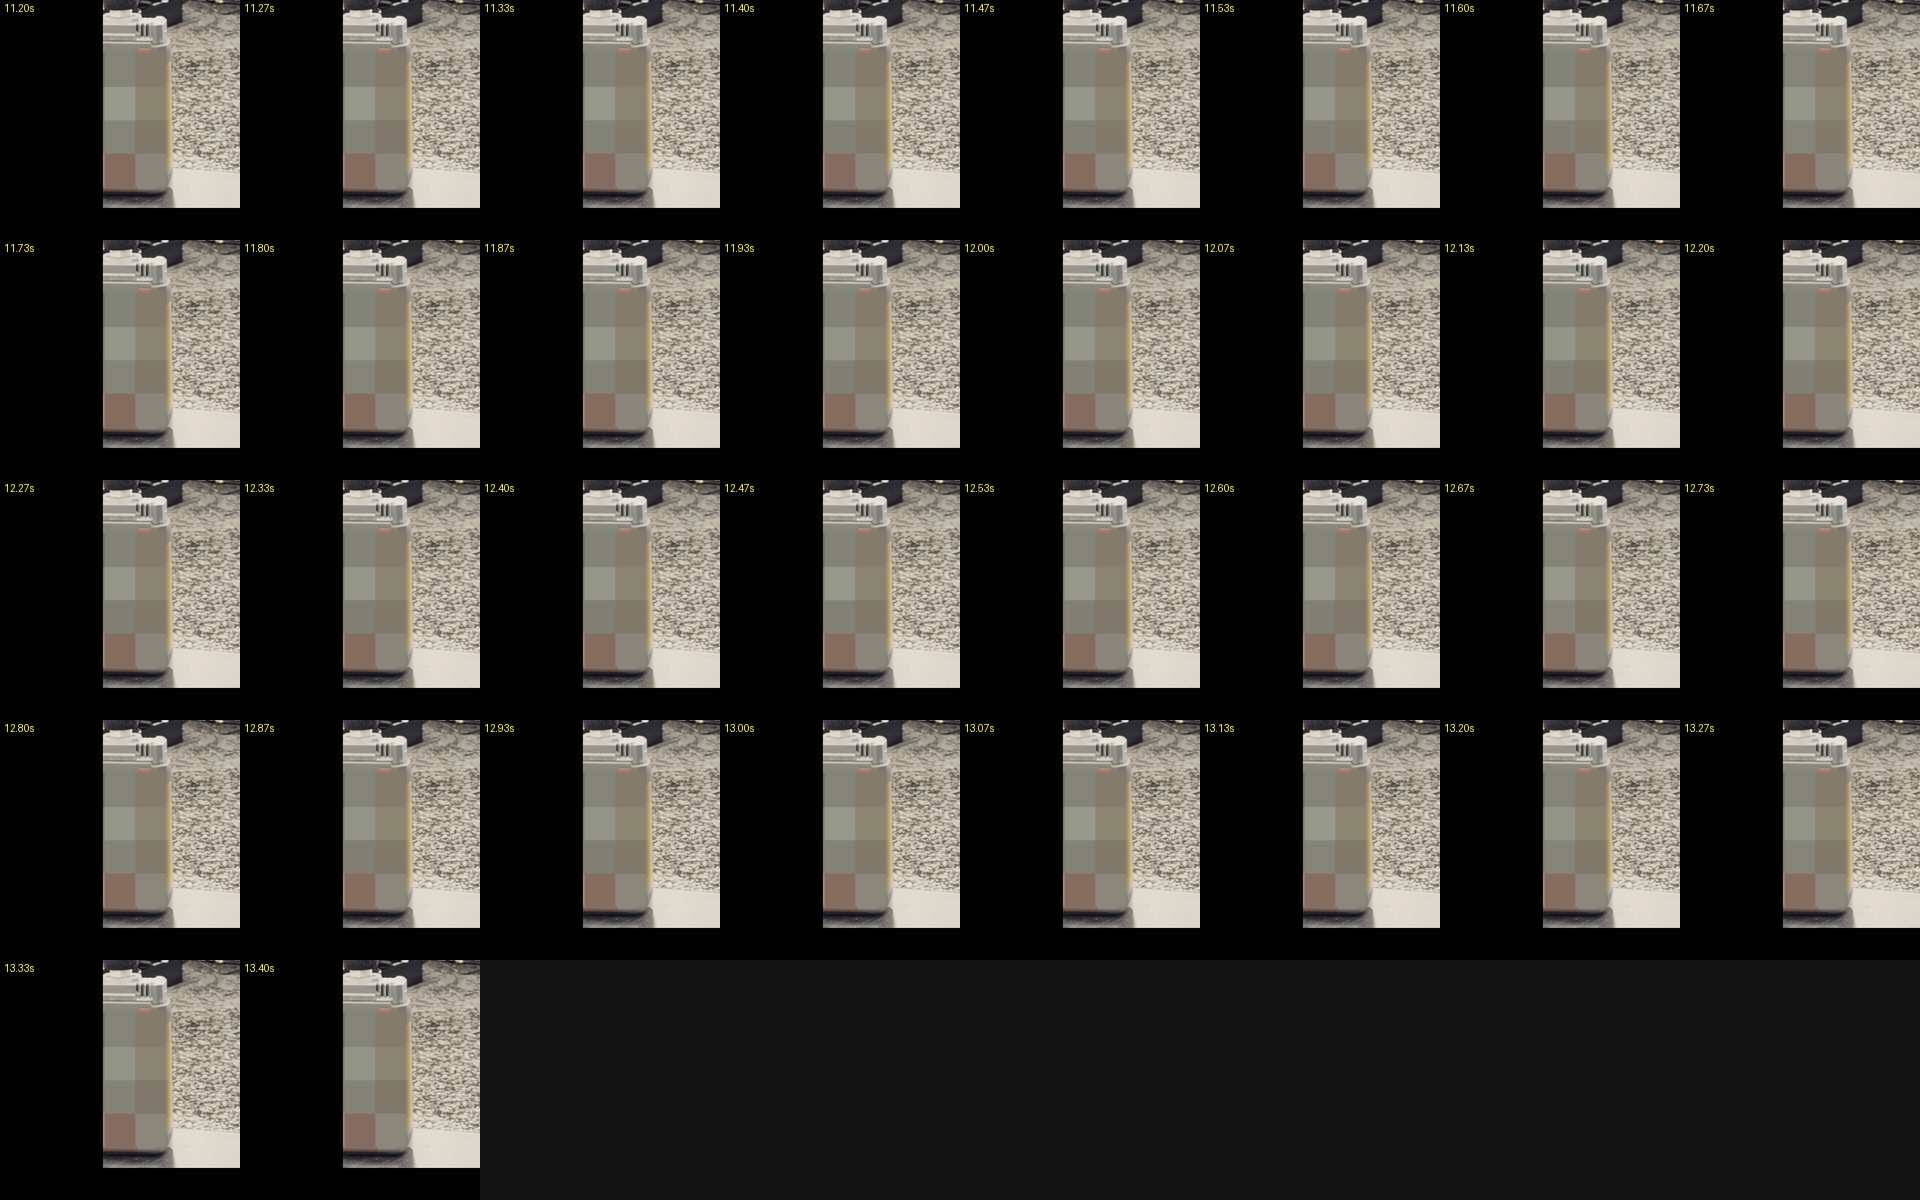
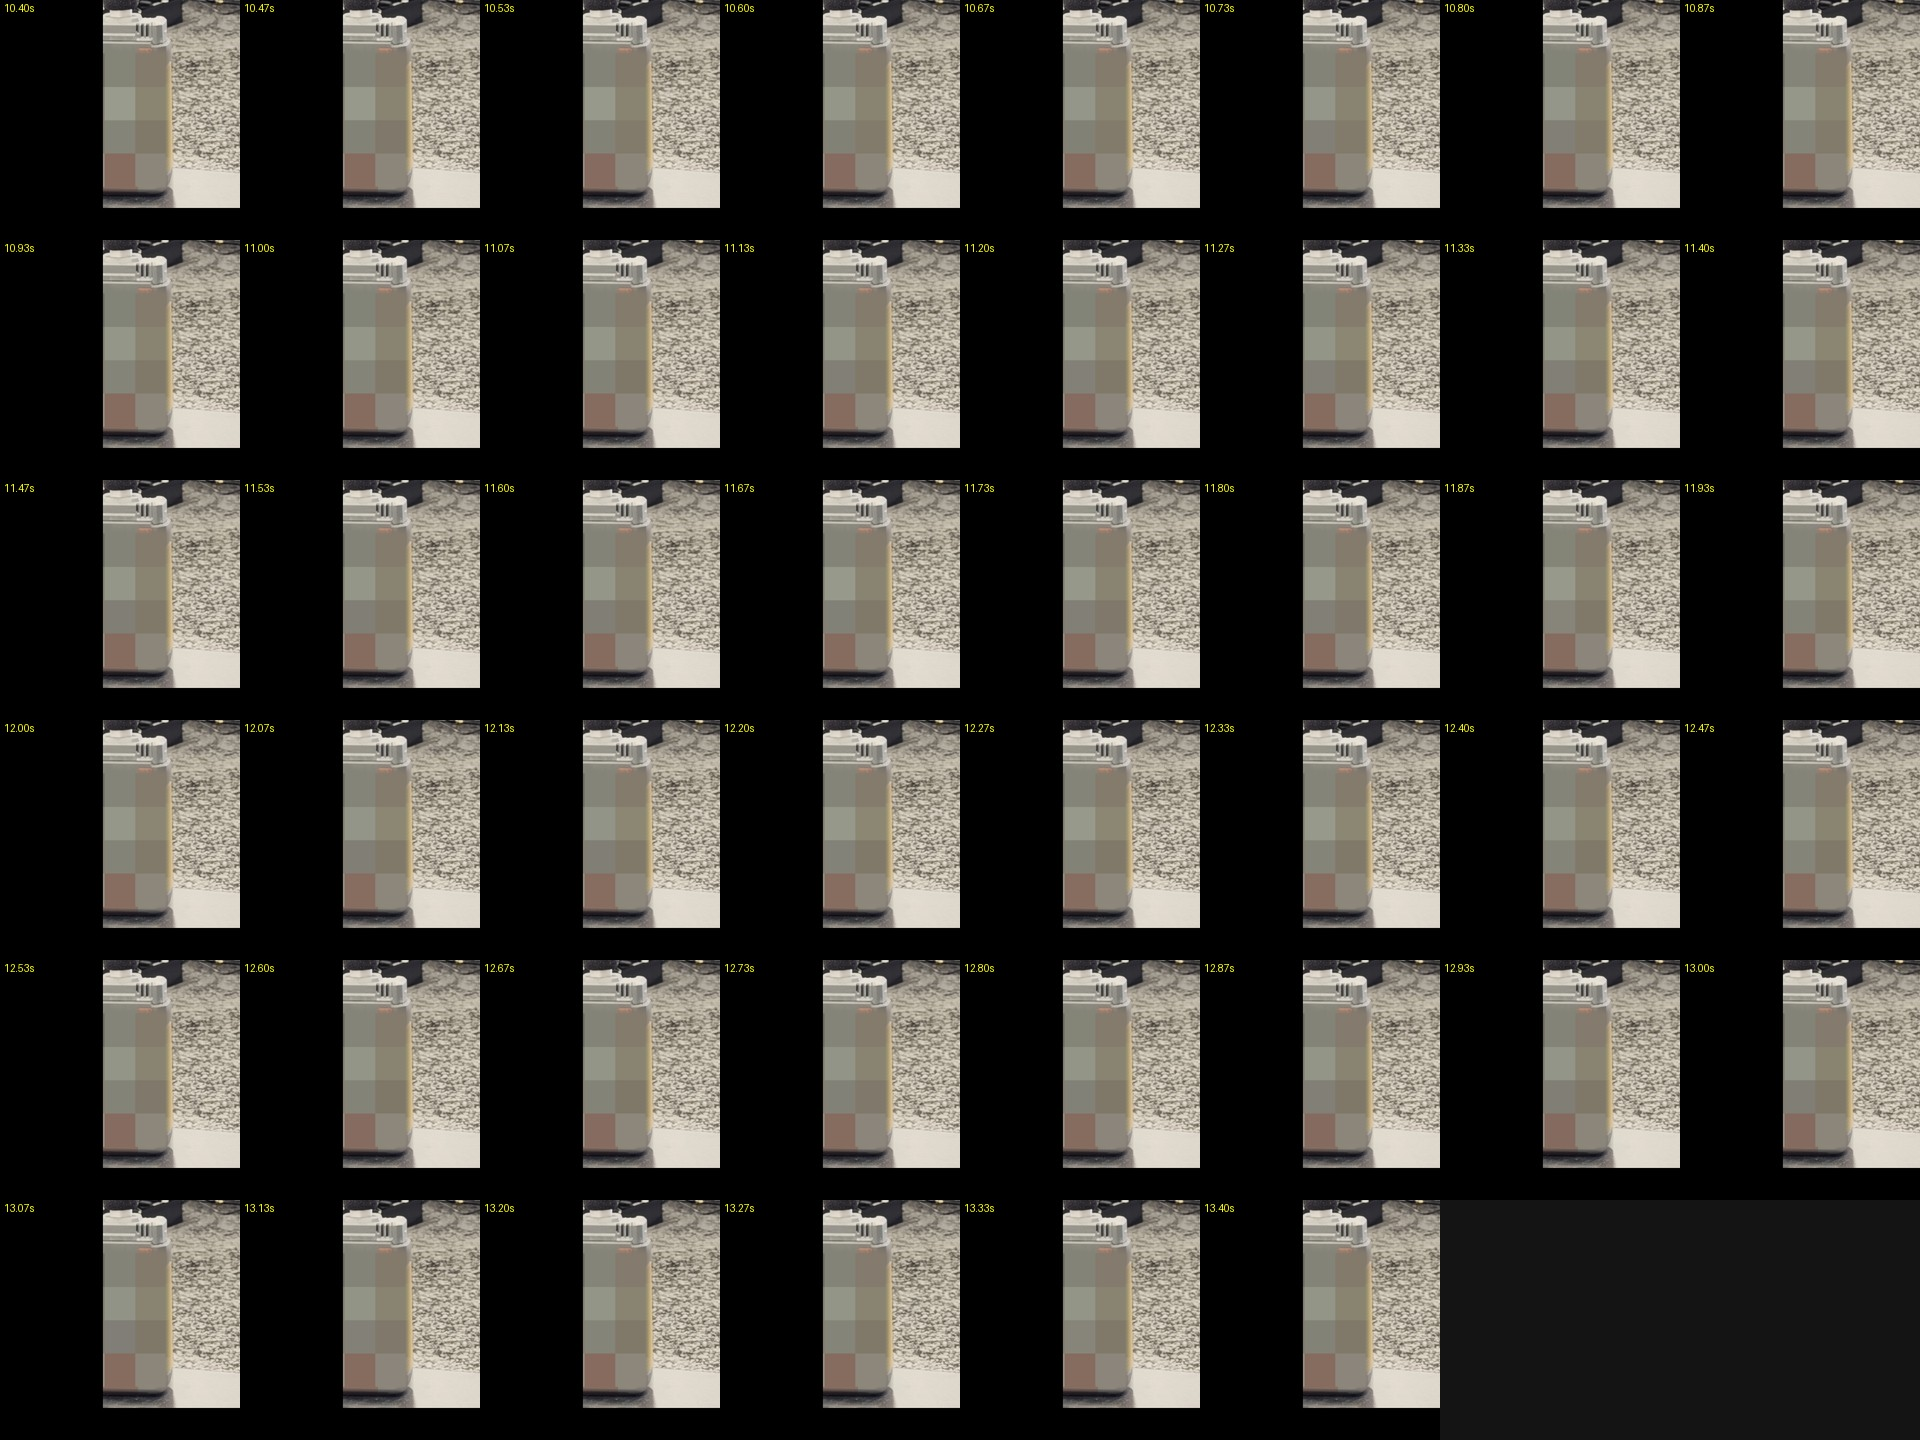
C63 Cut Back v3: BT.709 matrix, close quiet gap, keep end-card frames
Claude-Session: https://claude.ai/code/session_01VygxzDhjPWGsTKabbZH8VW

diff --git a/formula-dynamics/14-fd-commercials/2026-10-28-c63-cut-back/build.py b/formula-dynamics/14-fd-commercials/2026-10-28-c63-cut-back/build.py
@@ -76,9 +76,9 @@ SHOTS = [
          crop=((530, 1400, 1060), (500, 1650, 980)), redact=[]),
     dict(name="parts2", src="IMG_0579.MOV", t_in=7.45, dur=0.5,
          crop=((420, 3200, 800), (420, 3260, 760)), redact=[]),
-    dict(name="parts3", src="IMG_0579.MOV", t_in=10.35, dur=1.3,
+    dict(name="parts3", src="IMG_0579.MOV", t_in=10.35, dur=0.5,
          crop=((600, 1740, 1200), (800, 1800, 1100)), redact=[]),
-    dict(name="coldstart", src="IMG_0590.MOV", t_in=6.20, dur=2.45, a_pre=0.50,
+    dict(name="coldstart", src="IMG_0590.MOV", t_in=6.20, dur=74 / 30, a_pre=0.50,
          crop=((1330, 1475, 1659), (1350, 1475, 1590)),
          redact=[("plate", PLATE_0590, (6, 3)), ("meter", METER_0590, (3, 4))]),
     # the new burnt piping under the bumper, between the tip pairs; source y 1027-2093
@@ -86,10 +86,10 @@ SHOTS = [
     dict(name="piping", src="IMG_0590.MOV", t_in=53.90, dur=0.8,
          crop=((880, 1560, 520), (880, 1580, 470)),
          redact=[("plate", PLATE_0590, (6, 3)), ("meter", METER_0590, (3, 4))]),
-    dict(name="rev", src="IMG_0590.MOV", t_in=54.70, dur=2.30,
+    dict(name="rev", src="IMG_0590.MOV", t_in=54.70, dur=3.10,
          crop=((1420, 1300, 1400), (1420, 1300, 1400)),
          redact=[("plate", PLATE_0590, (6, 3)), ("meter", METER_0590, (3, 4))]),
-    dict(name="end", src="IMG_0590.MOV", t_in=57.00, dur=1.7,
+    dict(name="end", src="IMG_0590.MOV", t_in=57.80, dur=1.7,
          crop=((1420, 1300, 1400), (1420, 1300, 1400)),
          redact=[("plate", PLATE_0590, (6, 3)), ("meter", METER_0590, (3, 4))],
          darken=True),
@@ -428,7 +428,7 @@ A_POST = {"before": 1.20}      # L-cut: the stock car's rev and idle carry 1.2 s
 
 
 def build_audio(raw, wav_path):
-    N = int(round(TOTAL * SR))
+    N = int(round(NFRAMES / FPS * SR))      # exactly the video length, so the mux drops no frames
     mix = np.zeros((N + SR, 2), np.float32)
     # Each window's own audio only. J-cut (a_pre): the cold start's own cranking comes in
     # under the last parts cut; L-cut (A_POST): the stock rev decays under the first.
@@ -489,8 +489,9 @@ def main():
         return finish(raw, work)
     enc = subprocess.Popen(["ffmpeg", "-v", "error", "-y", "-f", "rawvideo", "-pix_fmt", "rgb24",
                             "-s", f"{W}x{H}", "-r", str(FPS), "-i", "-",
+                            "-vf", "scale=in_range=full:out_range=tv:out_color_matrix=bt709:flags=accurate_rnd+full_chroma_int,format=yuv420p",
                             "-c:v", "libx264", "-profile:v", "high", "-preset", "slow", "-crf", "17",
-                            "-pix_fmt", "yuv420p", "-colorspace", "bt709", "-color_primaries", "bt709",
+                            "-pix_fmt", "yuv420p", "-color_range", "tv", "-colorspace", "bt709", "-color_primaries", "bt709",
                             "-color_trc", "bt709", "-movflags", "+faststart", str(work / "video.mp4")],
                            stdin=subprocess.PIPE)
     log = []
@@ -526,7 +527,7 @@ def finish(raw, work):
     print("loudnorm pass1", json.dumps({k: js[k] for k in ("input_i", "input_tp", "input_lra")}))
     subprocess.run(["ffmpeg", "-v", "error", "-y", "-i", str(work / "video.mp4"), "-i", str(work / "mix_ln.wav"),
                     "-map", "0:v", "-map", "1:a", "-c:v", "copy", "-c:a", "aac", "-b:a", "192k", "-ar", str(SR),
-                    "-shortest", "-movflags", "+faststart", str(OUT_MP4)], check=True)
+                    "-movflags", "+faststart", str(OUT_MP4)], check=True)
     make_qa_sheets(work)
 
 

diff --git a/formula-dynamics/14-fd-commercials/2026-10-28-c63-cut-back/README.md b/formula-dynamics/14-fd-commercials/2026-10-28-c63-cut-back/README.md
@@ -10,12 +10,25 @@ Needs ffmpeg 6+, numpy, Pillow, opencv-python-headless. Brand values come from `
 Source footage and the mp4 are not committed.
 
 Output: `exports/FD C63 - Cut Back (exhaust, 15s) - INSTAGRAM 1080x1920.mp4`, 1080x1920, 30 fps,
-H.264 High, yuv420p/bt709, AAC 48 kHz stereo 192k, 15.15 s (455 frames).
+H.264 High, yuv420p/bt709 (tv range), AAC 48 kHz stereo 192k, 15.17 s (455 frames, none dropped: the audio is built to exactly 455/30 s and the mux no longer uses `-shortest`).
 
 v2 (2026-10-13), after nq-check: part brands off screen (hang tag and the can's etched name/text
 framed out), lift and third-party branding off the "before" shot, no synthetic sound, parts section
 cut from 6.65 s to 2.9 s, "NEW." moved onto the X-pipe, a close-up of the new piping under the
 bumper added to the payoff, hook text 40 px lower.
+
+v3 (2026-10-13), after nq-check failed v2: colour matrix fixed (see Colour), the near-silent bench gap
+(6.0-8.3 s) closed by trimming parts3 to 0.5 s and sliding the cold start in behind it (fire now at 7.60 s),
+the 0.8 s given back to the held rev; the last 4 end-card frames are no longer dropped by the mux.
+Piping close-up unchanged: Omarie confirmed on 13 Oct 2026 that the gold pipe under the diffuser is FD's work.
+
+## Colour
+
+The rgb24 frames are converted with an explicit matrix in the encoder (`-vf scale=in_range=full:out_range=tv:
+out_color_matrix=bt709`), because without it ffmpeg encoded BT.601 under a BT.709 tag and FD red decoded as
+(255,38,15). Measured on the delivered mp4 decoded as BT.709/tv: hook underline (254,14,20) vs #FE0F13 (254,15,19);
+end-card stripe red (254,14,19), green (30,174,75) vs #1DB14B (29,177,75), yellow (254,219,1) vs #FFDE00 (255,222,0),
+all within 4. The cover jpg is written straight from the RGB frame (sRGB, no YUV step), so it is unaffected.
 
 ## Shot list (timeline / source)
 
@@ -25,18 +38,18 @@ bumper added to the payoff, hook text 40 px lower.
 | before | 2.00-5.00 | IMG_0325 | 4.25-7.25 | rear three-quarter, crop top held at src y 1380 so the lift posts' maker name (above y 1290) never shows; stock revs at 4.3 and 7.0 |
 | parts1 | 5.00-6.10 | IMG_0579 | 5.10-6.20 | X-pipe and its first brace; framed left of / above the hang tag every frame |
 | parts2 | 6.10-6.60 | IMG_0579 | 7.45-7.95 | macro of the X-pipe brace, below the muffler can |
-| parts3 | 6.60-7.90 | IMG_0579 | 10.35-11.65 | X-pipe outlets and the bent link pipe, above the muffler can |
-| coldstart | 7.90-10.35 | IMG_0590 | 6.20-8.65 | wider rear; cold start fires at src 6.70 = timeline 8.40 |
-| piping | 10.35-11.15 | IMG_0590 | 53.90-54.70 | close-up of the burnt piping under the bumper between the tip pairs (crop w 520 to 470, src y about 1100-2000; tips, plate and meter logo box out of frame); the rev burst lands on the cut |
-| rev | 11.15-13.45 | IMG_0590 | 54.70-57.00 | held, uncut; burst at src 56.6 |
-| end | 13.45-15.15 | IMG_0590 | 57.00-58.70 | same framing, darkened 72% + soft blur over 6 frames |
+| parts3 | 6.60-7.10 | IMG_0579 | 10.35-10.85 | X-pipe outlets and the bent link pipe, above the muffler can |
+| coldstart | 7.10-9.57 | IMG_0590 | 6.20-8.67 | wider rear; cold start fires at src 6.70 = timeline 7.60; its audio starts under parts3 at 6.60 |
+| piping | 9.57-10.37 | IMG_0590 | 53.90-54.70 | close-up of the burnt piping under the bumper between the tip pairs (crop w 520 to 470, src y about 1100-2000; tips, plate and meter logo box out of frame); the rev burst lands on the cut |
+| rev | 10.37-13.47 | IMG_0590 | 54.70-57.80 | held, uncut (3.1 s, was 2.3); burst at src 56.6 = timeline 12.27 |
+| end | 13.47-15.17 | IMG_0590 | 57.80-59.50 | same framing, darkened 72% + soft blur over 6 frames |
 
 Part brands: in IMG_0579 a branded hang tag (maker's logo, serial, address) hangs under the X-pipe's
 second brace until about 7.4 s, and the muffler can carries the maker's name and lines of text etched on
 its side (readable whenever the can's side faces the camera, about 7.4-13.9 s). Every parts shot is framed
 so neither is in frame; `exports/qa/brandscan_parts_*.jpg` shows every frame of 5.00-7.90 at half size.
 IMG_0570 is not used (different car). IMG_0590 windows avoid the person at the left edge (about 1,
-37-41 and 69-73 s).
+37-41 and 69-73 s); the latest window now ends at 59.5 s.
 
 ## Text cards (all Bebas Neue, inside the 9:16 safe zone: top 11%, bottom 20%, left 5%, right 16%)
 
@@ -46,7 +59,7 @@ IMG_0570 is not used (different car). IMG_0590 windows avoid the person at the l
 | SEP 29 | 2.00-3.00 | white 72 px top-left, typed 2 frames per character, light top scrim |
 | OCT 7 | 5.00-6.00 | as SEP 29 |
 | NEW. | 5.20-5.90 (6 frames in, 0.7 s) | FD red, 380 px, centred in safe zone over the X-pipe, hard on/off. Red, not white: the ground is white paper. Not used on any tip shot |
-| End mark | 13.45-15.15 (6-frame fade in) | `fd-icon-mark-only--white` 380 px wide, the five-segment stripe drawn from `fd_brand.ACCENT_STRIPE` (red 36.7 / black 21.4 / white 19.4 / green 17.0 / yellow 5.5), "DM TO BOOK YOUR BUILD" 60 px white |
+| End mark | 13.47-15.17 (6-frame fade in) | `fd-icon-mark-only--white` 380 px wide, the five-segment stripe drawn from `fd_brand.ACCENT_STRIPE` (red 36.7 / black 21.4 / white 19.4 / green 17.0 / yellow 5.5), "DM TO BOOK YOUR BUILD" 60 px white |
 
 No figures, prices, part brands or material names. Copy passed SlopMonster 5/5 (unchanged from v1).
 
@@ -64,13 +77,13 @@ match (OpenCV, half res, search +-90 px) and smoothed over 5 frames, in source s
 |---|---|---|
 | 0.00-2.00 | 0590 plate (part in frame), meter (just off frame) | 1.00 / 0.98 |
 | 2.00-5.00 | 0325 plate; another customer's car's sponsor logo and name (right edge); printed maker emblems on a parts box beside the tail light | 0.80 / 0.96 / 0.82 |
-| 7.90-10.35 | 0590 plate + meter LCD | 1.00 / 0.98 |
-| 10.35-11.15 | 0590 plate + meter LCD (both outside the piping crop; tracked anyway) | 1.00 / 0.99 |
-| 11.15-13.45 | 0590 plate + meter LCD | 1.00 / 0.98 |
-| 13.45-15.15 | 0590 plate + meter LCD (under the darken) | 1.00 / 0.99 |
+| 7.10-9.57 | 0590 plate + meter LCD | 1.00 / 0.98 |
+| 9.57-10.37 | 0590 plate + meter LCD (both outside the piping crop; tracked anyway) | 1.00 / 0.99 |
+| 10.37-13.47 | 0590 plate + meter LCD | 1.00 / 0.98 |
+| 13.47-15.17 | 0590 plate + meter LCD (under the darken) | 1.00 / 0.99 |
 
 Check sheets in `exports/qa/`: `redaction_<shot>_<box>.jpg` (every 2nd frame at 240 px tiles, cropped
-around the box), `brandscan_parts_01-08.jpg` (every frame of the parts section, 540x960 tiles),
+around the box), `brandscan_parts_01-06.jpg` (every frame of the parts section, 5.00-7.10, 540x960 tiles),
 `piping_every_frame_01-02.jpg` (every frame of the piping close-up), `render_every_0.5s.jpg` (whole render).
 
 ## Sound
@@ -78,12 +91,15 @@ around the box), `brandscan_parts_01-08.jpg` (every frame of the parts section, 
 The car's own sound only: no music, no added effects (v1's synthetic 58 Hz sub hits and noise whoosh are
 gone). Each window's own audio with 8-12 ms fades at cuts, plus two real-audio overlaps: an L-cut where
 the stock car's rev and idle (IMG_0325 7.25-8.45) carry 1.2 s into the parts with a 0.5 s fade, and a
-J-cut where the cold start's own audio (IMG_0590 from 5.70) comes in 0.5 s under the last parts cut so
+J-cut where the cold start's own audio (IMG_0590 from 5.70) comes in 0.5 s under the start of parts3 (6.60 s) so
 the starter is heard before the picture changes. Bench audio under the parts at 0 dB. 1.3 s fade on the
 end. Mix peak-normalised, then two-pass loudnorm (I -14, TP -1.5, linear).
 
-Measured on the delivered mp4 (ffmpeg ebur128, peak=true): **-13.9 LUFS integrated, LRA 4.9 LU,
-true peak -2.1 dBTP.** About 6.3-7.9 s is still quiet (bench room tone, -38 to -40 LUFS momentary).
+Measured on the delivered mp4 (ffmpeg ebur128, peak=true): **-13.9 LUFS integrated, LRA 4.4 LU,
+true peak -2.5 dBTP.** Momentary minimum per second: 5-6 s -22.9, 6-7 s -39.7, 7-8 s -32.2 (this second holds the
+deliberate breath before the fire at 7.60), 8-9 s -17.1 LUFS. The lowest stretch is about 6.3-7.35 s (below -30,
+about 1 s): bench room tone under parts3, then the starter crank. Starting the J-cut earlier (0.7 s) was tried and
+is quieter (the source is silent before 5.70), so it stays at 0.5 s.
 
 ## Grade
 
